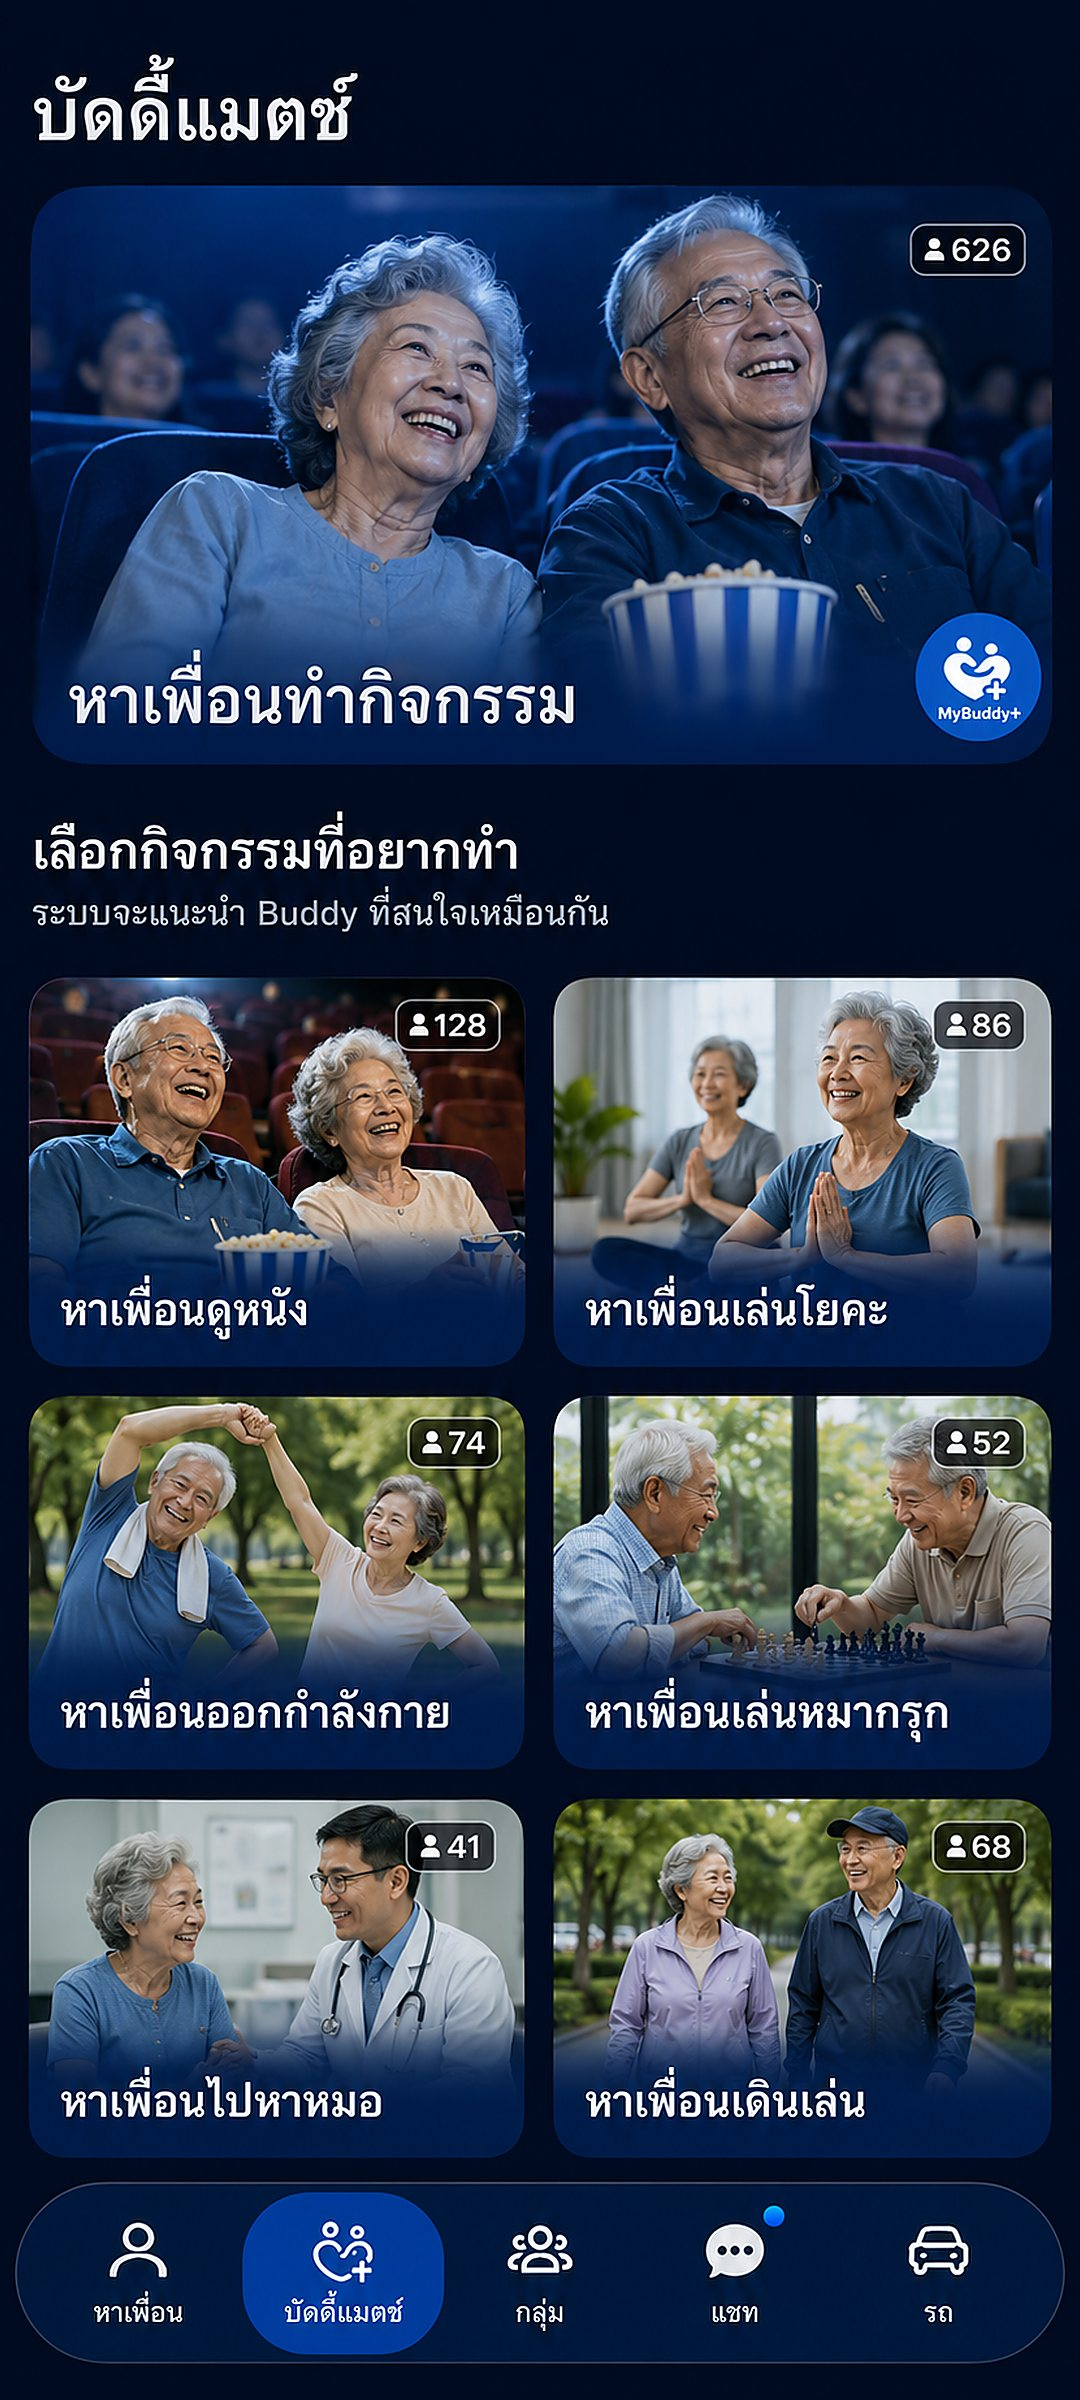
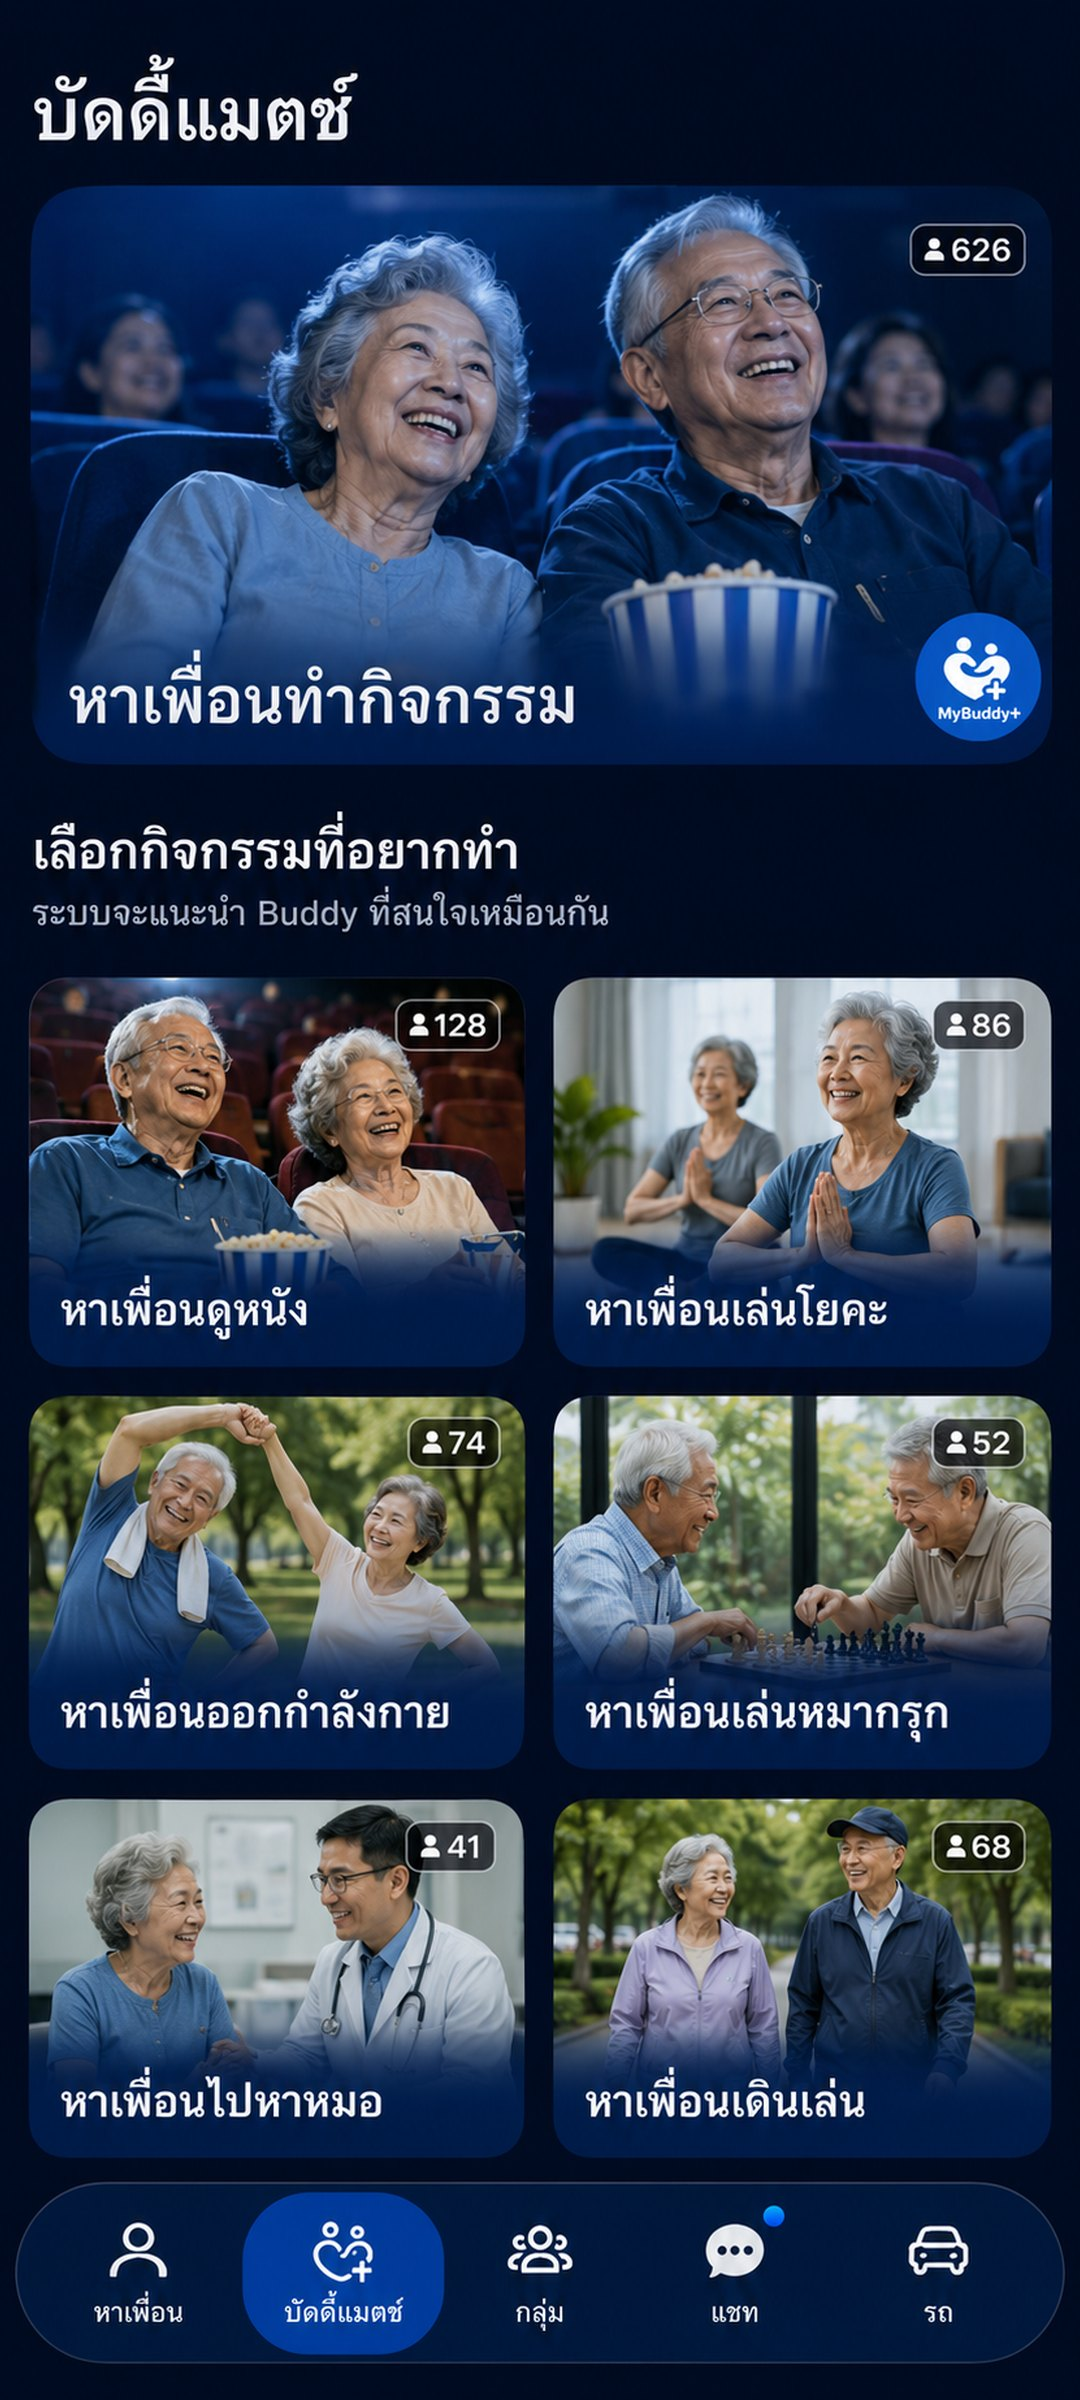
Add files via upload

diff --git a/styles.css b/styles.css
@@ -1349,7 +1349,7 @@ a {
 .appointment-hero {
   background:
     linear-gradient(135deg, rgba(0, 151, 117, .9), rgba(30, 145, 255, .86)),
-    url("assets/home-menu.jpg?v=109") center top / cover;
+    url("assets/home-menu.jpg?v=110") center top / cover;
 }
 
 .feature-hero::after {
@@ -3387,13 +3387,15 @@ a {
 }
 
 .buddy-chat-menu-screen,
-.buddy-match-menu-screen {
+.buddy-match-menu-screen,
+.buddy-all-menu-screen {
   background: #082b60;
   overflow: hidden;
 }
 
 .buddy-chat-menu-screen > img,
-.buddy-match-menu-screen > img {
+.buddy-match-menu-screen > img,
+.buddy-all-menu-screen > img {
   display: block;
   width: 100%;
   height: 100%;
@@ -3414,6 +3416,16 @@ a {
 }
 
 .match-zone {
+  position: absolute;
+  z-index: 90;
+  display: block;
+  border: 0;
+  border-radius: 18px;
+  background: rgba(255, 255, 255, 0);
+  touch-action: manipulation;
+}
+
+.all-zone {
   position: absolute;
   z-index: 90;
   display: block;
@@ -3486,6 +3498,58 @@ a {
   height: 0;
   border-radius: 999px;
   pointer-events: none;
+}
+
+.all-tab-match {
+  left: 5%;
+  top: 9.7%;
+  width: 42%;
+  height: 6%;
+  border-radius: 12px;
+}
+
+.all-tab-recommend {
+  left: 50%;
+  top: 9.7%;
+  width: 45%;
+  height: 6%;
+}
+
+.all-card-1,
+.all-card-2,
+.all-card-3,
+.all-card-4 {
+  width: 43.5%;
+  height: 24.2%;
+  border-radius: 28px;
+}
+
+.all-card-1 {
+  left: 4.5%;
+  top: 22.1%;
+}
+
+.all-card-2 {
+  right: 4.5%;
+  top: 22.1%;
+}
+
+.all-card-3 {
+  left: 4.5%;
+  top: 49.8%;
+}
+
+.all-card-4 {
+  right: 4.5%;
+  top: 49.8%;
+}
+
+.all-cta {
+  left: 9%;
+  top: 80.1%;
+  width: 82%;
+  height: 6.2%;
+  border-radius: 999px;
 }
 
 .chat-zone-shield {

diff --git a/index.html b/index.html
@@ -7,7 +7,7 @@
     <style>
       *{box-sizing:border-box}html,body{min-height:100%;margin:0;background:#0488ff}body{display:grid;place-items:center;font-family:system-ui,-apple-system,BlinkMacSystemFont,"Segoe UI",sans-serif}.app-shell{position:relative;width:min(100vw,calc(100svh * 1080 / 2400));height:min(100svh,calc(100vw * 2400 / 1080));overflow:hidden;background:#068bff}.screen{position:absolute;inset:0;visibility:hidden;opacity:0;pointer-events:none;background:#068bff}.screen.active,.screen:target{visibility:visible;opacity:1;pointer-events:auto;z-index:20}.splash-screen{z-index:30;animation:criticalSplash .35s ease 2s forwards}.login-screen{visibility:visible;opacity:1;pointer-events:auto;z-index:1}.splash-screen.leaving{display:none;visibility:hidden;opacity:0;pointer-events:none}.image-screen{--art-h:100%;overflow:hidden}.image-screen>img,.splash-screen>img{display:block;width:100%;height:100%;object-fit:cover;object-position:center top;user-select:none;pointer-events:none}.tap-zone{position:absolute;z-index:60;display:block;border:0;background:transparent;touch-action:manipulation}.menu-tap{top:calc(var(--art-h)*.012);right:2.5%;width:14%;height:calc(var(--art-h)*.07)}.start-tap{left:10%;top:calc(var(--art-h)*.704);width:80%;height:calc(var(--art-h)*.092);border-radius:999px}.family-tap{left:10%;top:calc(var(--art-h)*.795);width:80%;height:calc(var(--art-h)*.092);border-radius:999px}.line-submit-tap{left:10.7%;top:calc(var(--art-h)*.63);width:78.6%;height:calc(var(--art-h)*.066)}.buddy-swipe-screen{background:#061729;overflow:hidden;touch-action:manipulation}.buddy-full-card-image{position:absolute;inset:0;width:100%;height:100%;object-fit:cover;pointer-events:none;user-select:none;-webkit-user-drag:none}.buddy-zone{position:absolute;z-index:999;display:block;border:0;padding:0;background:rgba(255,255,255,0);border-radius:999px;pointer-events:auto;touch-action:manipulation;text-decoration:none;color:transparent}.buddy-zone-filter{left:2%;top:4%;width:15%;height:9%}.buddy-zone-refresh{right:3%;top:12%;width:17%;height:11%}.buddy-zone-skip{left:0;bottom:10%;width:22%;height:13%}.buddy-zone-message{left:21%;bottom:11%;width:39%;height:11%}.buddy-zone-save{right:21%;bottom:11%;width:18%;height:11%}.buddy-zone-like{right:0;bottom:10%;width:23%;height:13%}.buddy-nav-find,.buddy-nav-match,.buddy-nav-group,.buddy-nav-chat,.buddy-nav-ride{bottom:0;width:20%;height:14%}.buddy-nav-find{left:0}.buddy-nav-match{left:20%}.buddy-nav-group{left:40%}.buddy-nav-chat{left:60%}.buddy-nav-ride{left:80%}@keyframes criticalSplash{to{visibility:hidden;opacity:0;pointer-events:none}}
     </style>
-    <link rel="stylesheet" href="styles.css?v=109" />
+    <link rel="stylesheet" href="styles.css?v=110" />
   </head>
   <body>
     <main class="app-shell" aria-label="NEOMYBuddy">
@@ -74,7 +74,7 @@
       </section>
 
       <section class="screen image-screen home-screen" id="home" aria-label="MyBuddy+ home">
-        <img class="home-main-image" src="assets/home-menu.jpg?v=109" alt="หน้าเมนูหลัก MyBuddy+" />
+        <img class="home-main-image" src="assets/home-menu.jpg?v=110" alt="หน้าเมนูหลัก MyBuddy+" />
         <span class="home-menu-cover" aria-hidden="true"></span>
         <button class="tap-zone home-alert-tap" type="button" data-go="notifications" aria-label="เปิดการแจ้งเตือน"></button>
         <a class="tap-zone home-med-tap" href="#medicine" data-go="medicine" onclick="window.showScreen('medicine'); return false;" aria-label="เปิดหน้ากินยา"></a>
@@ -206,7 +206,7 @@
 
       <article class="appointment-dashboard">
         <section class="appointment-hero-new appointment-hero-image-card" aria-label="ภาพรวมระบบนัดหมาย">
-          <img src="assets/appointment-hero.jpg?v=109" alt="นัดหมายแพทย์" />
+          <img src="assets/appointment-hero.jpg?v=110" alt="นัดหมายแพทย์" />
         </section>
 
         <section class="appointment-next-card" aria-label="นัดหมายล่าสุด">
@@ -222,7 +222,7 @@
         </section>
 
         <section class="appointment-tools appointment-tools-image" aria-label="เครื่องมือช่วยจัดการ">
-          <img src="assets/appointment-tools.jpg?v=109" alt="เอกสารนัดหมาย ประวัติการนัด สิ่งที่ต้องเตรียม ติดต่อเจ้าหน้าที่" />
+          <img src="assets/appointment-tools.jpg?v=110" alt="เอกสารนัดหมาย ประวัติการนัด สิ่งที่ต้องเตรียม ติดต่อเจ้าหน้าที่" />
           <button class="appointment-tool-hit tool-documents" type="button" data-go="appointment-documents" aria-label="เอกสารนัดหมาย"></button>
           <button class="appointment-tool-hit tool-history" type="button" data-go="appointment-history" aria-label="ประวัติการนัด"></button>
           <button class="appointment-tool-hit tool-prep" type="button" data-go="appointment-prep" aria-label="สิ่งที่ต้องเตรียม"></button>
@@ -410,7 +410,7 @@
       </section>
 
       <section class="screen image-screen buddy-swipe-screen" id="buddy-discovery" aria-label="หาเพื่อน Buddy">
-        <img class="buddy-full-card-image" src="assets/buddy-somchai.jpg?v=109" alt="หน้าปัดหาเพื่อน Buddy" data-buddy-card-image />
+        <img class="buddy-full-card-image" src="assets/buddy-somchai.jpg?v=110" alt="หน้าปัดหาเพื่อน Buddy" data-buddy-card-image />
         <a class="buddy-zone buddy-zone-home" href="#home" data-go="home" aria-label="กลับหน้า Home"></a>
         <a class="buddy-zone buddy-zone-filter" href="#buddy-discovery" data-go="buddy-discovery" aria-label="ตัวกรอง"></a>
         <a class="buddy-zone buddy-zone-refresh" href="#buddy-discovery-2" data-go="buddy-discovery-2" aria-label="ดูคนถัดไป"></a>
@@ -426,7 +426,7 @@
       </section>
 
       <section class="screen image-screen buddy-swipe-screen" id="buddy-discovery-2" aria-label="หาเพื่อน Buddy">
-        <img class="buddy-full-card-image" src="assets/buddy-malee.jpg?v=109" alt="หน้าปัดหาเพื่อน Buddy คุณมาลี" />
+        <img class="buddy-full-card-image" src="assets/buddy-malee.jpg?v=110" alt="หน้าปัดหาเพื่อน Buddy คุณมาลี" />
         <a class="buddy-zone buddy-zone-home" href="#home" data-go="home" aria-label="กลับหน้า Home"></a>
         <a class="buddy-zone buddy-zone-filter" href="#buddy-discovery-2" data-go="buddy-discovery-2" aria-label="ตัวกรอง"></a>
         <a class="buddy-zone buddy-zone-refresh" href="#buddy-discovery" data-go="buddy-discovery" aria-label="ดูคนถัดไป"></a>
@@ -447,7 +447,7 @@
           <button class="top-logo-back" type="button" data-go="buddy-discovery" aria-label="กลับ">กลับ</button>
         </header>
         <article class="panel buddy-profile-panel">
-          <img src="assets/buddy-somchai.jpg?v=109" alt="รูปโปรไฟล์ Buddy" data-profile-photo />
+          <img src="assets/buddy-somchai.jpg?v=110" alt="รูปโปรไฟล์ Buddy" data-profile-photo />
           <h1 data-profile-name>คุณกานิน, 64</h1>
           <p data-profile-area>อยู่ใกล้สวนลุมพินี ประมาณ 0.8 กม.</p>
           <div class="buddy-detail-list">
@@ -462,7 +462,7 @@
       </section>
 
       <section class="screen image-screen buddy-match-menu-screen" id="buddy-match" aria-label="บัดดี้แมตช์">
-        <img src="assets/buddy-match-menu.jpg?v=109" alt="หน้าบัดดี้แมตช์" />
+        <img src="assets/buddy-match-menu.jpg?v=110" alt="หน้าบัดดี้แมตช์" />
         <a class="match-zone match-tab-all" href="#buddy-match" data-go="buddy-match" aria-label="บัดดี้แมตช์ทั้งหมด"></a>
         <a class="match-zone match-tab-recommend" href="#buddy-discovery" data-go="buddy-discovery" aria-label="แนะนำสำหรับคุณ"></a>
         <a class="match-zone match-card-1" href="#buddy-discovery" data-go="buddy-discovery" aria-label="หาเพื่อนดูหนัง"></a>
@@ -479,11 +479,27 @@
         <a class="match-zone chat-nav-ride" href="#buddy-ride" data-go="buddy-ride" aria-label="รถ"></a>
       </section>
 
+      <section class="screen image-screen buddy-all-menu-screen" id="buddy-all" aria-label="บัดดี้ทั้งหมด">
+        <img src="assets/buddy-all-menu.jpg?v=110" alt="หน้าบัดดี้ทั้งหมด" />
+        <a class="all-zone all-tab-match" href="#buddy-match" data-go="buddy-match" aria-label="บัดดี้แมตช์"></a>
+        <a class="all-zone all-tab-recommend" href="#buddy-discovery" data-go="buddy-discovery" aria-label="แนะนำสำหรับคุณ"></a>
+        <a class="all-zone all-card-1" href="#buddy-chat-room" data-go="buddy-chat-room" aria-label="เปิดแชทคุณอรวรรณ"></a>
+        <a class="all-zone all-card-2" href="#buddy-chat-room" data-go="buddy-chat-room" aria-label="เปิดแชทคุณสมชาย"></a>
+        <a class="all-zone all-card-3" href="#buddy-chat-room" data-go="buddy-chat-room" aria-label="เปิดแชทคุณวิชัย"></a>
+        <a class="all-zone all-card-4" href="#buddy-chat-room" data-go="buddy-chat-room" aria-label="เปิดแชทคุณศิริพร"></a>
+        <a class="all-zone all-cta" href="#buddy-chat" data-go="buddy-chat" aria-label="ดูบัดดี้แมตช์ทั้งหมดตอนนี้เลย"></a>
+        <a class="all-zone chat-nav-find" href="#buddy-discovery" data-go="buddy-discovery" aria-label="หาเพื่อน"></a>
+        <a class="all-zone chat-nav-match" href="#buddy-match" data-go="buddy-match" aria-label="บัดดี้แมตช์"></a>
+        <a class="all-zone chat-nav-group" href="#buddy-group" data-go="buddy-group" aria-label="กลุ่ม"></a>
+        <a class="all-zone chat-nav-chat" href="#buddy-chat" data-go="buddy-chat" aria-label="แชท"></a>
+        <a class="all-zone chat-nav-ride" href="#buddy-ride" data-go="buddy-ride" aria-label="รถ"></a>
+      </section>
+
       <section class="screen image-screen buddy-chat-menu-screen" id="buddy-chat" aria-label="แชท Buddy">
-        <img src="assets/buddy-chat-menu.jpg?v=109" alt="หน้าเมนูแชท Buddy" />
+        <img src="assets/buddy-chat-menu.jpg?v=110" alt="หน้าเมนูแชท Buddy" />
         <a class="chat-zone chat-zone-shield" href="#buddy-tracking" data-go="buddy-tracking" aria-label="ความปลอดภัย"></a>
         <a class="chat-zone chat-zone-add-group" href="#buddy-group" data-go="buddy-group" aria-label="เพิ่มเพื่อนเข้ากลุ่ม"></a>
-        <a class="chat-zone chat-zone-new-match" href="#buddy-match" data-go="buddy-match" aria-label="ดูบัดดี้ทั้งหมด"></a>
+        <a class="chat-zone chat-zone-new-match" href="#buddy-all" data-go="buddy-all" aria-label="ดูบัดดี้ทั้งหมด"></a>
         <a class="chat-zone chat-zone-match-1" href="#buddy-chat-room" data-go="buddy-chat-room" aria-label="เปิดแชทคุณอรุณี"></a>
         <a class="chat-zone chat-zone-match-2" href="#buddy-chat-room" data-go="buddy-chat-room" aria-label="เปิดแชทคุณสมชาย"></a>
         <a class="chat-zone chat-zone-row-1" href="#buddy-chat-room" data-go="buddy-chat-room" aria-label="เปิดข้อความแรก"></a>
@@ -503,7 +519,7 @@
           <button class="top-logo-back" type="button" data-go="buddy-chat" aria-label="กลับ">กลับ</button>
         </header>
         <article class="panel buddy-chat-panel">
-          <div class="buddy-chat-head"><img class="buddy-chat-avatar" src="assets/buddy-malee.jpg?v=109" alt="คุณมาลี" /><div><strong>คุณมาลี</strong><small>ออนไลน์ พร้อมคุย</small></div></div>
+          <div class="buddy-chat-head"><img class="buddy-chat-avatar" src="assets/buddy-malee.jpg?v=110" alt="คุณมาลี" /><div><strong>คุณมาลี</strong><small>ออนไลน์ พร้อมคุย</small></div></div>
           <div class="buddy-message-list" data-buddy-chat-list>
             <span class="incoming">สวัสดีค่ะ วันนี้สะดวกคุยไหมคะ</span>
             <span class="outgoing">สะดวกครับ อยากไปเดินเล่นช่วงเช้า</span>
@@ -882,6 +898,6 @@
 
       <p class="toast" role="status" aria-live="polite"></p>
     </main>
-    <script src="script.js?v=109"></script>
+    <script src="script.js?v=110"></script>
   </body>
 </html>

diff --git a/script.js b/script.js
@@ -874,21 +874,21 @@ var cleanBuddyProfiles = [
   {
     name: 'คุณสมชาย',
     age: '70',
-    image: 'assets/buddy-somchai.jpg?v=109',
+    image: 'assets/buddy-somchai.jpg?v=110',
     distance: 'ใกล้คุณ 1.8 กม.',
     summary: 'ชอบเดินเล่น เล่นหมากรุก คุยเรื่องข่าว และออกกำลังกายเบา ๆ'
   },
   {
     name: 'คุณมาลี',
     age: '66',
-    image: 'assets/buddy-malee.jpg?v=109',
+    image: 'assets/buddy-malee.jpg?v=110',
     distance: 'ใกล้คุณ 3.2 กม.',
     summary: 'ชอบทำอาหาร ปลูกต้นไม้ ทำบุญ และเข้ากิจกรรมกลุ่ม'
   },
   {
     name: 'คุณอรุณี',
     age: '68',
-    image: 'assets/buddy-malee.jpg?v=109',
+    image: 'assets/buddy-malee.jpg?v=110',
     distance: 'เพิ่งเข้าร่วมไม่นานนี้',
     summary: 'ชอบเดินเล่น ทำบุญ ฟังเพลง และคุยตอนเช้า'
   }